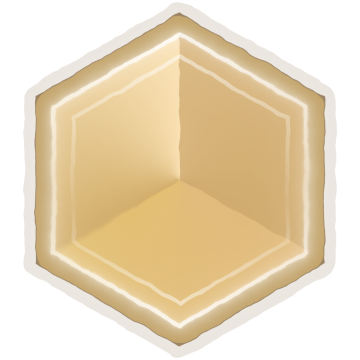
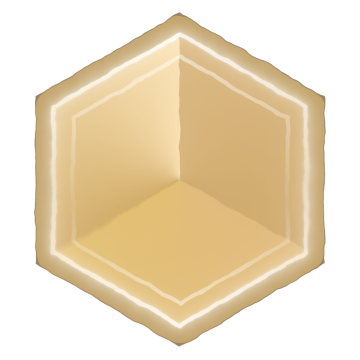
asd

Changed region(s): [[0.0611, 0.0, 0.9472, 1.0]]

diff --git a/Algo/Assets/02.Scripts/9/DevilKnapsackShop.cs b/Algo/Assets/02.Scripts/9/DevilKnapsackShop.cs
@@ -162,7 +162,7 @@ public class DevilKnapsackShop : MonoBehaviour
         bestHealthDeal.Clear();
 
         // 배낭 용량(플레이어의 체력 기준) 설정
-        // 현재 체력의 1만큼을 남기고 나머지를 최대 용량으로 사용 가능하게
+        // 현재 체력의 10만큼을 남기고 나머지를 최대 용량으로 사용 가능하게
         int capacity = player.maxHealth - 10;
 
         // 체력이 10 이하라면 거래 할 수 없음(return)
